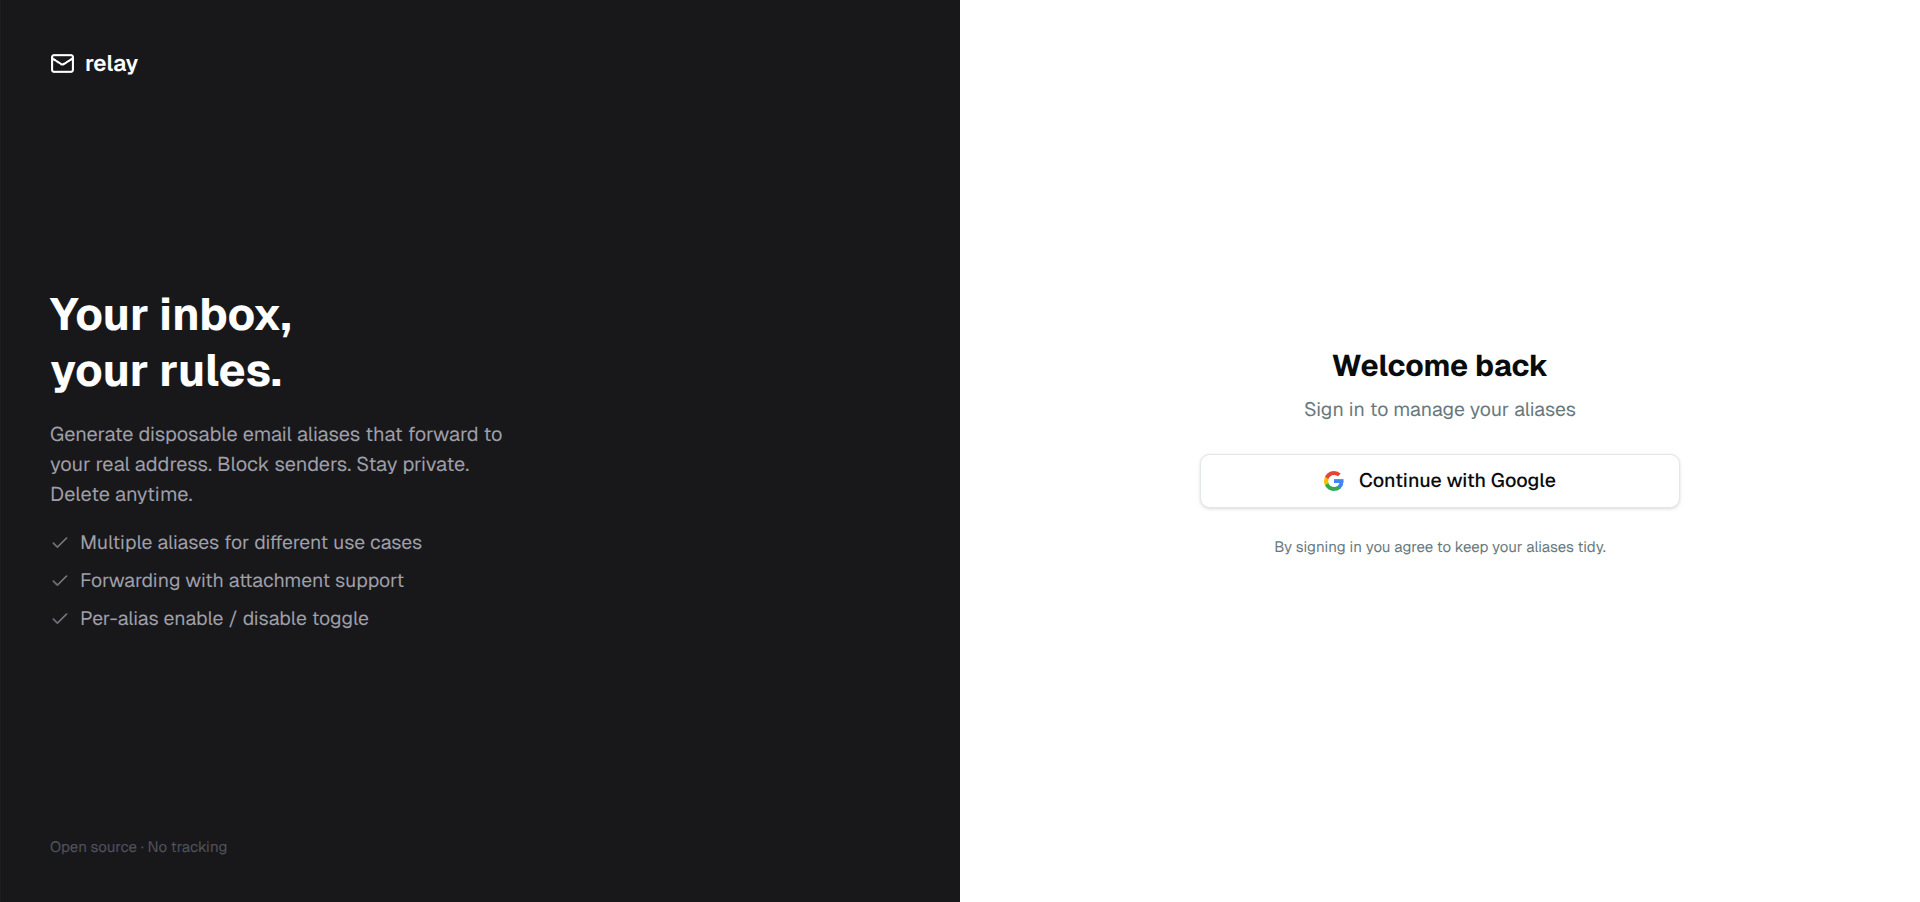
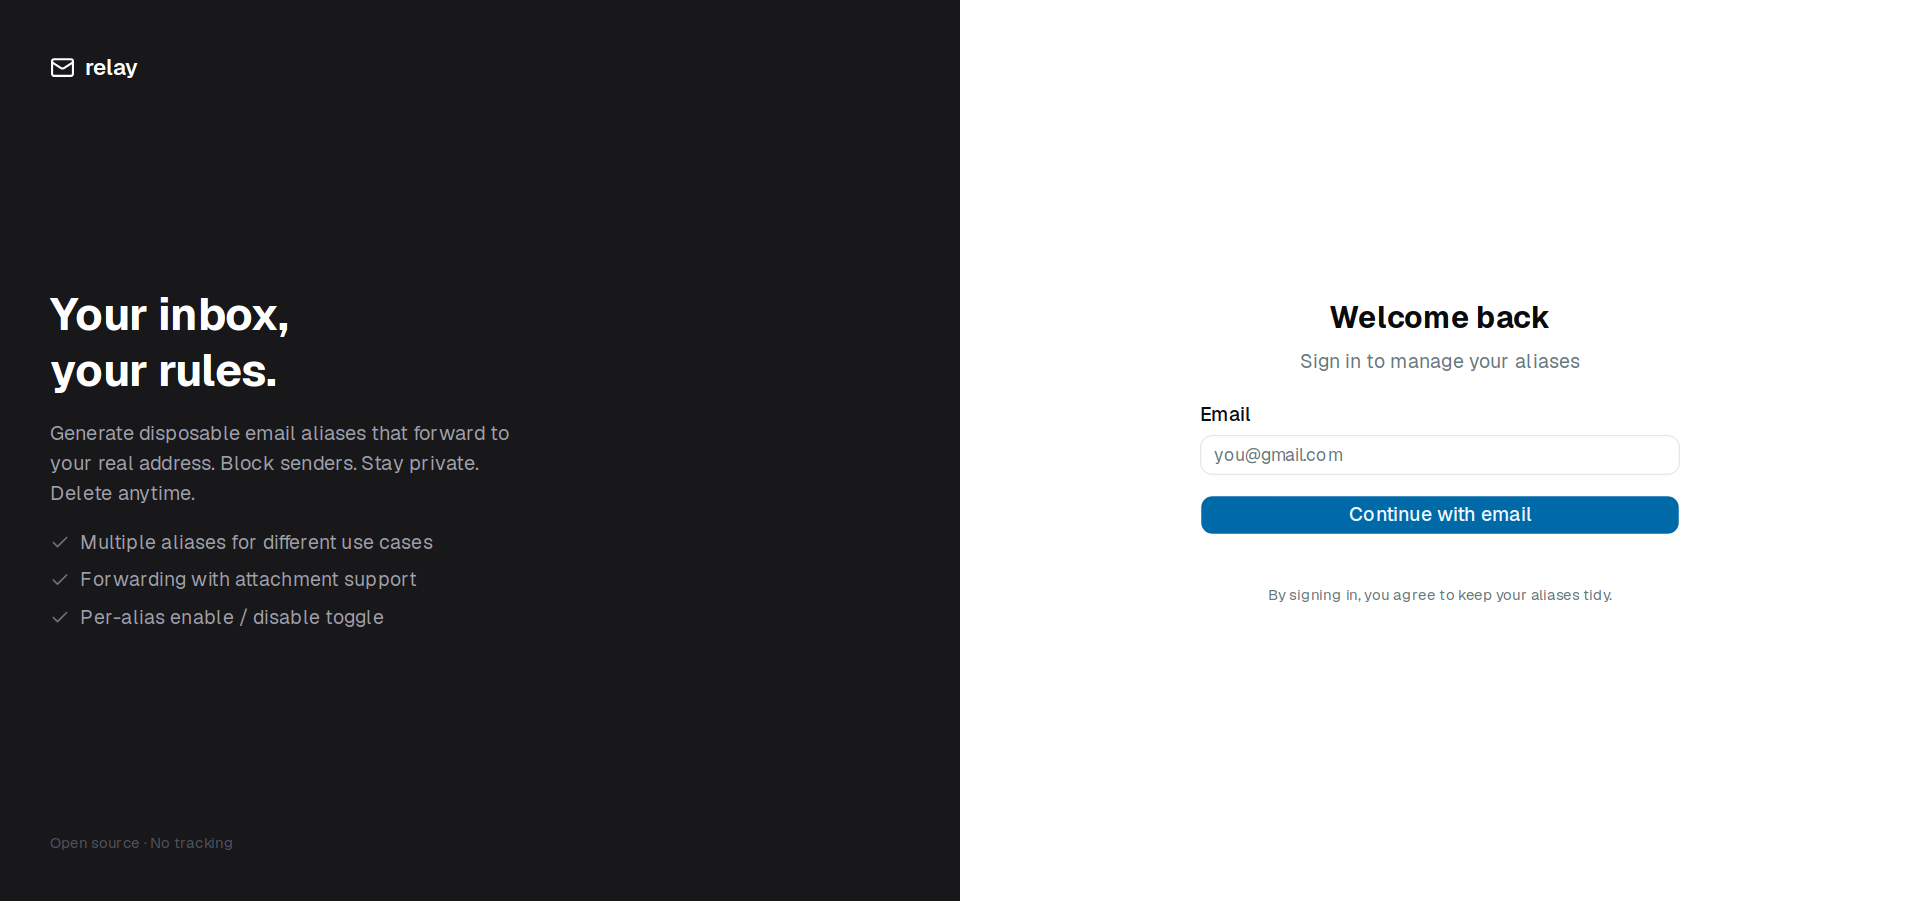
docs: update readme and preview

diff --git a/README.md b/README.md
@@ -7,25 +7,36 @@
 
 Create disposable email aliases that forward to your real inbox. Keep your address private, reply anonymously, disable aliases you no longer need, and stay in control.
 
-![screenshot placeholder](docs/screenshot.png)
+![relay sign-in page](docs/screenshot.png)
 
 ---
 
 ## Getting started
 
 ```bash
-cp .env.example .env
-# fill in .env
-
-go run ./cmd/server
-cd web && pnpm install && pnpm dev
+cp .env.example .env    # fill in the values, see Configuration
 ```
 
-Or with Docker:
+`pnpm dev` reads `web/.env`, not the root `.env`, so also create `web/.env` with:
 
 ```bash
-docker build -t relay .
-docker compose up
+NEXT_PUBLIC_CLERK_PUBLISHABLE_KEY=pk_test_...
+NEXT_PUBLIC_API_URL=
+```
+
+Then run the backend and frontend in two terminals:
+
+```bash
+go run ./cmd/server               # terminal 1
+cd web && pnpm install && pnpm dev  # terminal 2
+```
+
+Open http://localhost:8080. The Go server serves the API and proxies everything else to Next.js on port 3000.
+
+Or with Docker, which also starts Postgres:
+
+```bash
+docker compose up --build
 ```
 
 ## Configuration
@@ -34,7 +45,9 @@ Copy `.env.example` to `.env` and fill in the values.
 
 | Variable | Description |
 |---|---|
+| `PORT` | Server port (defaults to `8080`) |
 | `DATABASE_URL` | Postgres connection string |
+| `DB_USER`, `DB_PASSWORD`, `DB_NAME` | Postgres credentials, only used by `docker compose` |
 | `CLERK_SECRET_KEY` | Clerk secret key, verifies sessions |
 | `NEXT_PUBLIC_CLERK_PUBLISHABLE_KEY` | Clerk publishable key (build arg, baked into the frontend) |
 | `SMTP_DOMAIN` | Domain for alias addresses |
@@ -42,8 +55,16 @@ Copy `.env.example` to `.env` and fill in the values.
 | `MAILGUN_DOMAIN` | Mailgun sending domain (defaults to `SMTP_DOMAIN`) |
 | `MAILGUN_SIGNING_KEY` | Mailgun webhook signing key, verifies inbound mail |
 | `MAILGUN_API_BASE` | Mailgun API base URL (use the EU endpoint for EU accounts) |
-| `FRONTEND_URL` | Public URL of the app |
-| `NEXT_PUBLIC_API_URL` | API URL (if backend hosted separately) |
+| `FRONTEND_URL` | Allowed CORS origin, only matters if the frontend is hosted separately |
+| `NEXT_PUBLIC_API_URL` | API URL if the backend is hosted separately (build arg, leave empty otherwise) |
+
+## Setup
+
+**Clerk.** In the Clerk dashboard, enable **Email address** with **Email verification code** as the sign-in method, and turn off passwords and social providers. A production instance sends the codes from your own domain once you add the DNS records Clerk lists. On Cloudflare, set those records to DNS only.
+
+**Allowed email providers.** Only addresses from big providers can sign in: Gmail, iCloud, Outlook/Hotmail, Yahoo and Proton. The list lives in `internal/auth/domains.go`, and `web/src/lib/allowed-emails.ts` keeps a copy for the form's pre-check. Change both together.
+
+**Mailgun.** Add an inbound route for `SMTP_DOMAIN` that forwards to `https://<your-app>/api/webhooks/email`.
 
 <!-- ## API
 
